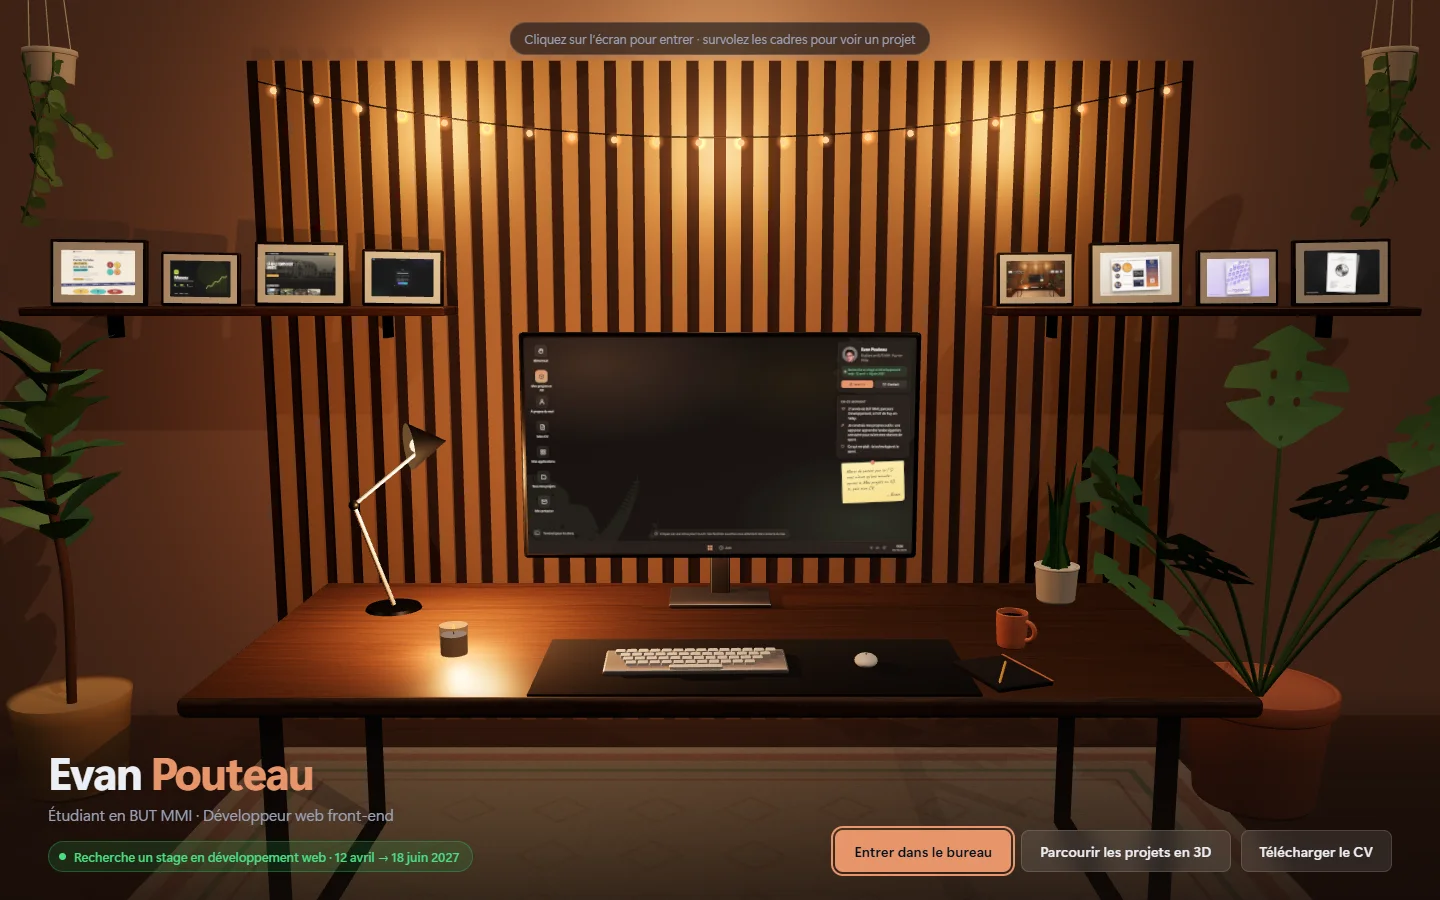
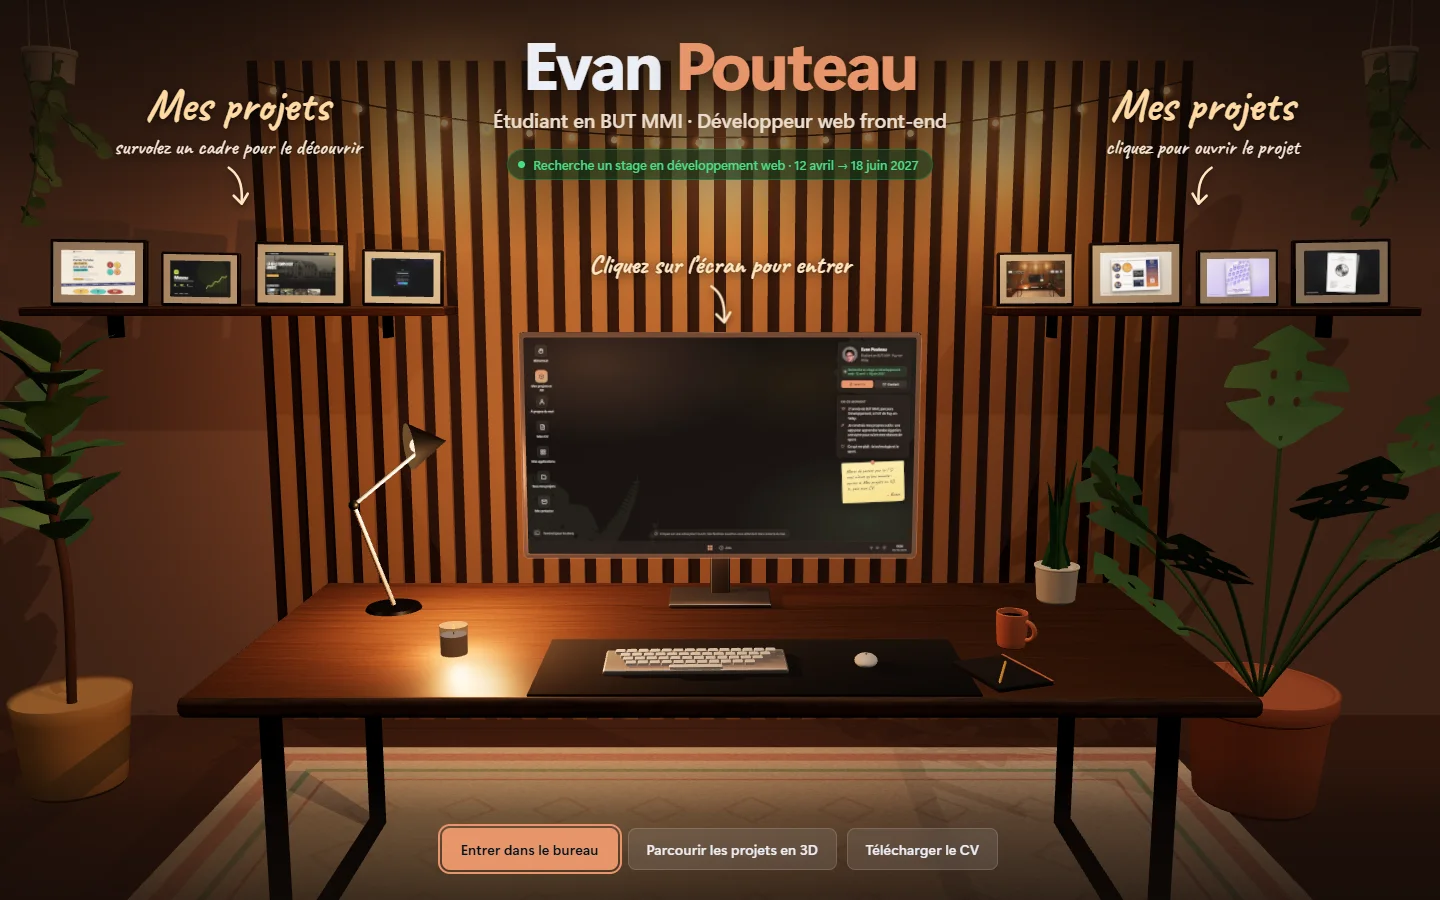
README : captures à jour, section « Comment ce projet a été réalisé »

diff --git a/README.md b/README.md
@@ -18,7 +18,9 @@ Auvergne, je cherche un **stage en développement web du 12 avril au
 | | |
 |---|---|
 | ![Le bureau et sa fenêtre de bienvenue](docs/images/bureau.webp) | ![Le carrousel 3D des projets](docs/images/galerie-3d.webp) |
-| **Un bureau lisible par tous** : une fenêtre de bienvenue explique où cliquer, pas besoin de connaître la métaphore Windows. | **Une galerie 3D** : les projets défilent dans un carrousel, au clavier, à la souris ou au doigt. |
+| **Un bureau lisible par tous** : une fenêtre de bienvenue explique où cliquer, pas besoin de connaître la métaphore Windows ; un bouton ramène à la pièce 3D à tout moment. | **Une galerie 3D** : les projets défilent dans un carrousel, au clavier, à la souris ou au doigt. |
+| ![L'écran de chargement : nom, métier et barre d'avancement](docs/images/chargement.webp) | ![La version téléphone : la pièce 3D et le bureau](docs/images/mobile.webp) |
+| **Un écran de chargement** qui suit l'avancement réel de la pièce, pour qu'on ne croie jamais le site vide. | **Pensé pour le téléphone** : annotations replacées, fenêtres plein écran, aide adaptée au tactile. |
 
 - **Huit projets**, dont deux applications Next.js + Supabase en production :
   une app pour apprendre l'arabe égyptien et une app de suivi de musculation.
@@ -30,6 +32,25 @@ Auvergne, je cherche un **stage en développement web du 12 avril au
   référencée par les moteurs de recherche.
 - **Accessible** : la 3D se saute d'une touche, et elle n'est pas chargée du
   tout si le système demande moins d'animations ou ne gère pas WebGL.
+
+## Comment ce projet a été réalisé
+
+**Ma part.** Le concept (un portfolio qui se visite comme un bureau), la
+direction artistique (la pièce chaleureuse, les plantes, la lumière tamisée),
+les contenus et les choix d'ergonomie sont les miens. J'ai fait tester le site
+à mes professeurs et intégré leurs retours (écran de chargement, nom mis en
+avant, repères dans la pièce, bouton de retour), repéré et fait corriger les
+problèmes de la version téléphone, et je gère le déploiement (GitHub → Vercel).
+La première version de ce portfolio, un site statique, est dans
+[`legacy/`](legacy/).
+
+**Avec une IA.** Cette version Next.js + Three.js a été développée avec
+Claude, un assistant de code, que j'ai dirigé : je décris ce que je veux, je
+teste, je refuse ou je fais reprendre ce qui ne va pas. Les mécanismes les plus
+pointus, comme la compilation des shaders en arrière-plan ou l'éclairage
+d'environnement, sont issus de ce travail, et je les documente ci-dessous.
+Savoir mener un projet réel de bout en bout avec ces outils fait partie des
+compétences que je veux montrer.
 
 ## Stack
 
